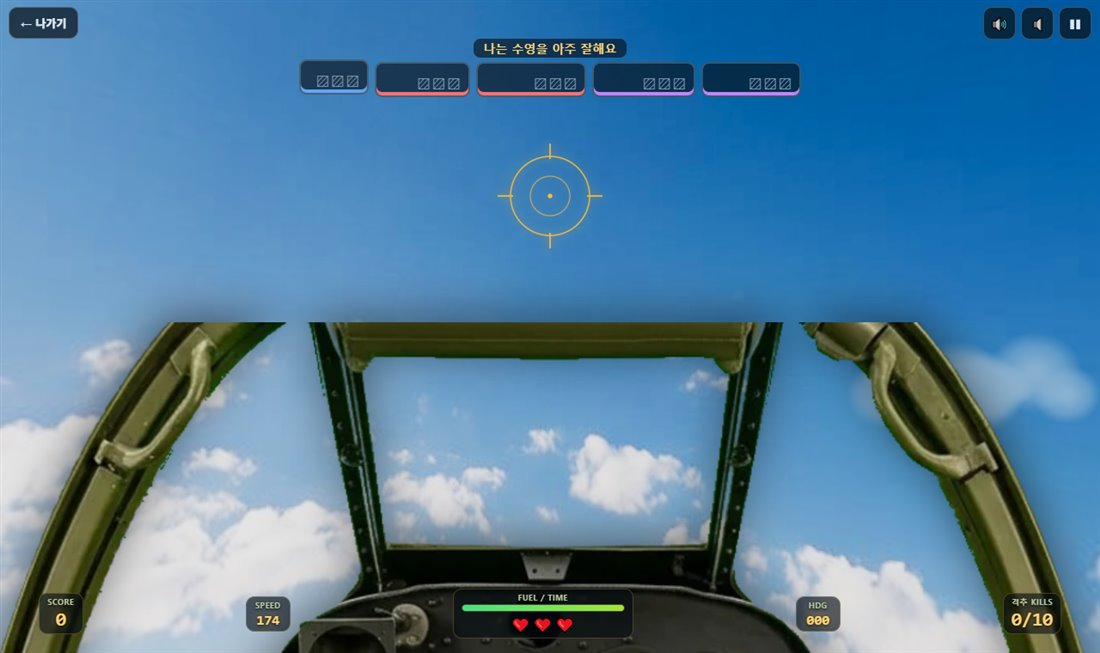
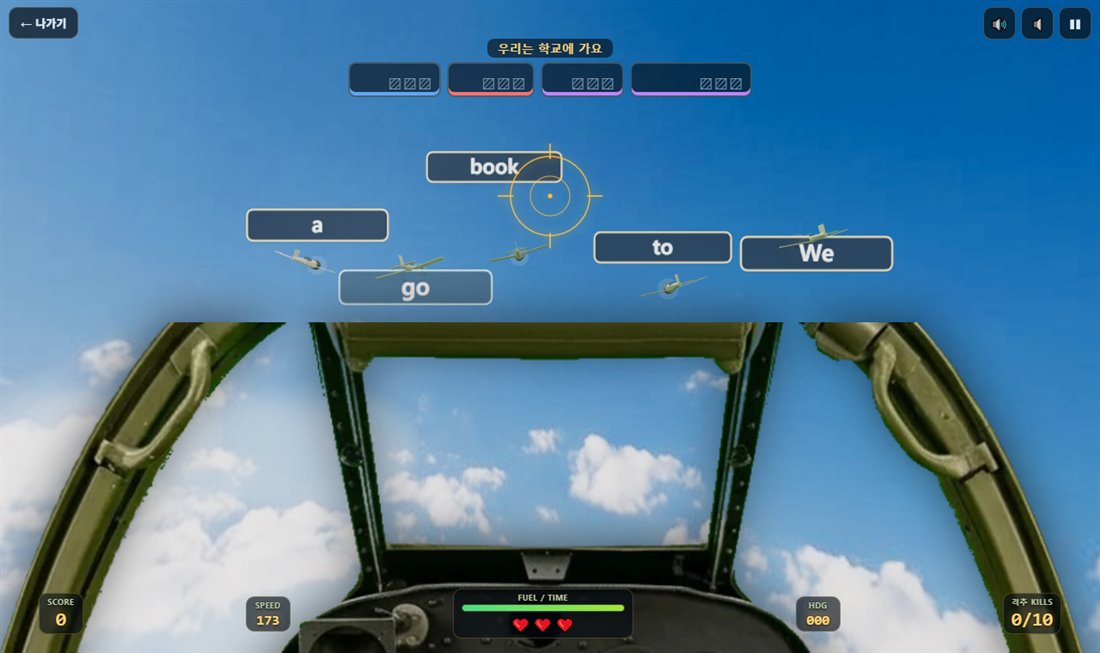
fix(p38-3d): 조준 벡터가 뒤집혀 적기가 등 뒤에 생기던 문제 + 허브 연동·모바일 조작·중국어 보강
■ 🔴🔴 조준 벡터 뒤집힘 — 이번 작업에서 가장 오래 잡은 버그
  aimVec() 을 `new Vector3(0,ndcY,0.5).unproject(camera)` 로 구현했는데,
  near=0.5 기준 NDC z=0.5 가 만드는 점은 카메라 앞 '겨우 2m' 다.
  플레이어는 프레임당 2.5m 를 전진하고 camera.matrixWorld 는 직전 렌더 시점 값이라
  그 2m 를 그대로 넘어서, 조준 벡터가 통째로 뒤(위)를 가리켰다.
  → 적기가 등 뒤 200m 에 배치되고 화면은 텅 빔. 행렬 비의존 해석적 계산으로 교체.
  · 함께: newGame 에서 player.updateMatrixWorld(true) — 데모 비행 잔재 제거
  · 함께: 적기 보정 상한을 max(sp*3.2, 플레이어속도*1.4) 로 — 낮으면 한 번 뒤처진 기체가 영영 못 따라옴

■ 허브 연동
  · 허브가 듣는 메시지 이름은 'mangoi-game-back' / 'mangoi-game-complete' 인데
    'mangoi-game-exit' 를 보내 아무 반응도 없었다. 이름이 틀리면 조용히 죽는다
  · 문장 완성·무전 교신 성공 시 hubComplete() → 허브 점수·오늘 학습(스트릭) 반영

■ 모바일 조작
  · 터치를 절대 위치 → '상대 드래그' 로 교체(닿는 순간 기체가 튀던 문제)
  · 조종 손가락을 pointerId 로 고정 — 발사 버튼을 누른 손가락이 조종에 끼어들지 않게

■ 중국어 보강
  · 문장 6 → 10개(문법 성분 포함), 혼동쌍 5 → 29개
    买/卖, 书/树 처럼 '같은 소리 다른 성조'를 나란히 띄워 성조를 듣게 만든다

■ 화면 비율 대응
  · 조종석 크기·조준점(aimY)·적기 배치 폭·라벨 크기를 가로 화각에 맞춰 자동 조정
    (세로 폰 / 16:9 / 21:9 모두 창 안에 들어옴)
  · 라벨 층 간격을 라벨 높이 비례로 — 고정값이면 이웃 라벨이 포개짐

검증: tsc 오류 0 · test-harness --fast 47 PASS 0 FAIL
      실브라우저 1280x760 / 1920x897 / 400x820 · 영어·중국어 · 격추 판정 정상

diff --git a/cloudflare-deploy/public/student-game-p38-3d.html b/cloudflare-deploy/public/student-game-p38-3d.html
@@ -47,13 +47,18 @@
   @media (max-aspect-ratio: 1/1){
     #cpPhoto img{--cpW:175%;--cpB:-40%}
   }
+  /* 아주 넓은 화면(21:9급) — 기본값 140% 를 그대로 두면 조종석이 화면을 삼켜 하늘이 안 보인다 */
+  @media (min-aspect-ratio: 19/10){
+    #cpPhoto img{--cpW:102%;--cpB:-62%}
+  }
   /* 유리 반사·비네팅 — 아주 옅게만(하늘을 가리지 않게) */
   #cpGlass{inset:0;background:
       radial-gradient(130% 100% at 50% 40%,rgba(255,255,255,0) 66%,rgba(10,20,10,.22) 100%),
       linear-gradient(112deg,rgba(255,255,255,.07) 0%,rgba(255,255,255,0) 22%,rgba(255,255,255,.04) 34%,rgba(255,255,255,0) 48%)}
 
   /* ───────── 조준기(N-3B 반사식 조준기 모사) ───────── */
-  /* top 값은 스크립트의 AIM_Y(0.30)와 반드시 같아야 한다 — 어긋나면 '조준기에 넣었는데 안 맞는' 버그가 된다 */
+  /* top 은 스크립트가 화면 비율에 맞춰 다시 넣는다(aimY). CSS 값은 첫 페인트용 기본치일 뿐이다.
+     ⚠ 조준기 위치와 사격 판정 방향이 어긋나면 '조준기에 넣었는데 안 맞는' 버그가 된다 — 항상 aimY 하나로 맞춘다 */
   #sight{position:absolute;left:50%;top:30%;transform:translate(-50%,-50%);z-index:6;pointer-events:none;
     filter:drop-shadow(0 0 6px rgba(255,190,60,.75))}
   #sight.lock circle.ring{stroke:#ff6a4d}
@@ -373,21 +378,34 @@ var SETS = {
     { w:['The','bird','flies','in','the','sky'], r:['S','S','V','M','M','M'], ko:'그 새는 하늘을 날아요' }
   ],
   zh: [
-    { w:['我','去','学校'],       r:['S','V','M'],     ko:'나는 학교에 가요' },
-    { w:['我','喜欢','苹果汁'],   r:['S','V','O'],     ko:'나는 사과 주스를 좋아해요' },
-    { w:['她','看','书'],         r:['S','V','O'],     ko:'그녀는 책을 봐요' },
-    { w:['他','今天','踢','足球'], r:['S','M','V','O'], ko:'그는 오늘 축구를 해요' },
-    { w:['我们','每天','学','英语'], r:['S','M','V','O'], ko:'우리는 매일 영어를 공부해요' },
-    { w:['鸟','在','天上','飞'],  r:['S','M','M','V'], ko:'새가 하늘에서 날아요' }
+    { w:['我','去','学校'],          r:['S','V','M'],     ko:'나는 학교에 가요' },
+    { w:['我','喜欢','苹果汁'],      r:['S','V','O'],     ko:'나는 사과 주스를 좋아해요' },
+    { w:['她','看','书'],            r:['S','V','O'],     ko:'그녀는 책을 봐요' },
+    { w:['他','今天','踢','足球'],    r:['S','M','V','O'], ko:'그는 오늘 축구를 해요' },
+    { w:['我们','每天','学','英语'],  r:['S','M','V','O'], ko:'우리는 매일 영어를 공부해요' },
+    { w:['鸟','在','天上','飞'],      r:['S','M','M','V'], ko:'새가 하늘에서 날아요' },
+    { w:['我','爸爸','开','车'],      r:['S','S','V','O'], ko:'우리 아빠는 차를 운전해요' },
+    { w:['猫','在','睡觉'],           r:['S','M','V'],     ko:'고양이가 자고 있어요' },
+    { w:['他们','中午','吃','午饭'],  r:['S','M','V','O'], ko:'그들은 점심때 밥을 먹어요' },
+    { w:['我','会','游泳'],           r:['S','V','V'],     ko:'나는 수영할 줄 알아요' }
   ]
 };
-/* 듣기 변별용 혼동쌍(minimal pairs) — 오답기 라벨로 섞어 '귀로 구분'을 훈련시킨다 */
+/* 듣기 변별용 혼동쌍(minimal pairs) — 오답기 라벨로 섞어 '귀로 구분'을 훈련시킨다.
+   중국어는 자모가 아니라 성조가 갈림길이다: 买(mǎi)/卖(mài), 书(shū)/树(shù) 처럼
+   '같은 소리 다른 성조'를 일부러 나란히 띄워 성조를 듣게 만든다. */
 var CONFUSE = {
   en:{ go:['goes','no','so'], we:['me','be','wee'], school:['schools','cool','pool'], I:['eye','my'],
        like:['likes','lake','bike'], book:['books','look','cook'], cat:['cap','hat','cut'],
        is:['it','his'], plays:['play','place'], eat:['it','eight'], sky:['ski','skies'],
        read:['red','reads'], reads:['read','red'], swim:['slim','swing'], study:['steady','studies'] },
-  zh:{ '我':['你','他'], '去':['去过','出'], '学校':['学生','学习'], '看':['开','慢'], '书':['树','输'] }
+  zh:{ '我':['你','他'], '我们':['你们','他们'], '她':['他','它'], '他们':['我们','你们'],
+       '去':['出','住'], '看':['开','干'], '书':['树','输'], '学校':['学生','学习'],
+       '喜欢':['希望','欢迎'], '苹果汁':['苹果','果汁'], '今天':['明天','昨天'],
+       '每天':['明天','白天'], '踢':['提','题'], '足球':['篮球','足够'],
+       '学':['雪','血'], '英语':['汉语','用语'], '鸟':['尿','了'], '天上':['天下','明天'],
+       '飞':['非','肥'], '爸爸':['妈妈','哥哥'], '开':['看','来'], '车':['扯','这'],
+       '猫':['毛','忙'], '睡觉':['水饺','税收'], '中午':['中文','钟'], '吃':['七','迟'],
+       '午饭':['五分','舞蹈'], '会':['回','灰'], '游泳':['有用','游戏'] }
 };
 function distractorsFor(word){
   var pool = (CONFUSE[MODE] && CONFUSE[MODE][word]) ? CONFUSE[MODE][word].slice() : [];
@@ -637,6 +655,8 @@ function resize(){
   if(!renderer) return;
   renderer.setSize(W,H,false);
   camera.aspect=W/H; camera.updateProjectionMatrix();
+  // 조준기 그림 위치를 사격 판정 방향(aimY)과 항상 같이 움직인다
+  try{ document.getElementById('sight').style.top = (aimY()*100)+'%'; }catch(_){}
 }
 function forwardVec(){ return new THREE.Vector3(0,0,-1).applyQuaternion(player.quaternion); }
 
@@ -644,16 +664,28 @@ function forwardVec(){ return new THREE.Vector3(0,0,-1).applyQuaternion(player.q
    실물 조종석 사진에서 계기판이 화면 아래 절반을 차지하므로, 하늘이 보이는 창 중앙
    (화면 위에서 AIM_Y 지점)을 조준점으로 쓴다. 사격 판정·예광탄·적기 정면유지가
    모두 이 벡터를 기준으로 돌아야 조준기와 실제 명중이 어긋나지 않는다. */
-var AIM_Y = 0.30;
+/* 조준점의 화면 세로 위치 — 조종석 사진이 화면을 차지하는 비율이 화면 형태마다 달라서 고정할 수 없다.
+   넓은 화면일수록 조종석이 위로 올라오므로 조준점도 함께 올린다. CSS #sight{top} 은 resize() 가 맞춘다. */
+function aimY(){
+  var a = (H>0) ? W/H : 1.6;
+  if(a >= 1.9) return 0.24;      // 21:9 급 — 조종석이 화면 위쪽까지 올라온다
+  if(a <  1.0) return 0.34;      // 세로 폰 — 조종석은 하단에만 있어 여유가 있다
+  return 0.30;
+}
 /* 화면 가로 반화각(rad) — 세로 화면(모바일)은 이게 확 좁아진다.
    적기 배치 폭과 라벨 크기를 여기에 맞추지 않으면 폰에서 라벨이 통째로 창밖으로 나간다. */
 function hHalfFov(){ return Math.atan(Math.tan(camera.fov*Math.PI/360) * camera.aspect); }
 function labelScaleK(){ return Math.max(0.5, Math.min(1, camera.aspect/1.5)); }
-var _aimTmp=new THREE.Vector3(), _aimCam=new THREE.Vector3();
+/* ⚠⚠ 여기를 unproject 로 구현하면 안 된다 — 이 게임에서 가장 오래 잡은 버그다.
+   `new Vector3(0, ndcY, 0.5).unproject(camera)` 가 만드는 점은 near=0.5 기준으로
+   카메라 앞 **겨우 2m** 지점이다. 그런데 플레이어는 프레임당 2.5m 를 전진하고,
+   camera.matrixWorld 는 직전 렌더 시점 값이라 그 2m 를 그대로 넘어선다.
+   결과: 조준 벡터가 통째로 뒤집혀(뒤·위쪽) 적기가 등 뒤에 배치됐다.
+   → 행렬에 의존하지 않는 해석적 계산으로 푼다. 화면 중앙 세로 AIM 지점의 시선 방향이다. */
 function aimVec(){
-  _aimTmp.set(0, 1 - 2*AIM_Y, 0.5).unproject(camera);
-  camera.getWorldPosition(_aimCam);
-  return _aimTmp.sub(_aimCam).normalize().clone();
+  var vf = Math.tan(camera.fov * Math.PI / 360);      // 세로 반화각의 tan
+  var ndcY = 1 - 2*aimY();
+  return new THREE.Vector3(0, ndcY*vf, -1).normalize().applyQuaternion(player.quaternion);
 }
 
 /* ════════════════════════════════════════════════════════════════════
@@ -820,8 +852,10 @@ function spawnEnemy(word, isCorrect, kind, words, slotIdx, slotTotal){
   /* ⚠ rightAx 축 기준 회전은 +가 '위'다(오른손 법칙). 처음에 부호를 반대로 놔서 적기가 전부 화면 위로 몰렸다.
      조준점(화면 30%) 기준 +0.12 rad(위, 화면 ≈20%) ~ −0.32 rad(아래, 화면 ≈55%) 범위에 흩뿌린다.
      인덱스 홀짝으로 위/아래를 번갈아 배치해 라벨이 같은 높이에 몰리지 않게 한다. */
-  // 위쪽 밴드는 +0.04 까지만 — 더 올리면 세로 화면에서 라벨이 상단 문장 바에 물린다
-  var band = ((slotIdx||0) % 2 === 0) ? (0.04 - Math.random()*0.16) : (-0.10 - Math.random()*0.22);
+  /* 밴드는 전부 조준선보다 '아래'다. 라벨이 기체 위에 뜨기 때문에, 기체를 조준선 높이에 두면
+     라벨이 화면 상단 문장 바(z-index 8)에 가려 아예 안 보인다 — 실제로 그렇게 사라졌다. */
+  // 아래로 너무 내리면 이번엔 조종석 캐노피 아치에 가린다. −0.06 ~ −0.27 이 위아래 모두 안전한 창이다.
+  var band = ((slotIdx||0) % 2 === 0) ? (-0.06 - Math.random()*0.10) : (-0.13 - Math.random()*0.08);
   e.slotPitch = band;
   var UPv=new THREE.Vector3(0,1,0), aim=aimVec();
   var rightAx=new THREE.Vector3().crossVectors(aim, UPv).normalize();
@@ -931,6 +965,11 @@ function newGame(){
     wrongWords:{}, prog:[]
   };
   player.position.set(0,0,0); player.quaternion.identity();
+  /* ⚠ 반드시 여기서 행렬을 갱신한다.
+     aimVec() 은 camera.matrixWorld 의 역행렬로 조준 방향을 푸는데, 시작 화면의 데모 비행이
+     player 를 수백 m 이동·회전시켜 놓은 상태다. 갱신 없이 적기를 생성하면 데모 시점의
+     엉뚱한 방향에 뿌려지고, 그 뒤로는 영영 따라오지 못한다(실제로 그렇게 터졌다). */
+  player.updateMatrixWorld(true);
   clearEnemies(); loadSentence(true);
 }
 function bank(){ return (LESSON_SETS && LESSON_SETS.length) ? LESSON_SETS : SETS[MODE]; }
@@ -1035,6 +1074,7 @@ function hitWrong(e){
 function sentenceComplete(){
   G.sentences++; G.score+=300; G.time=Math.min(G.timeMax, G.time+8);
   banner('✦ 문장 완성! +300 ✦', '#ffd479');
+  hubComplete(300);              // 허브 점수·오늘 학습(스트릭)에 문장 1개 완성 반영
   updateHUD();
   if(P().voiceLock){ startAceDuel(); }        // 에이스: 음성 조준 결투 먼저
   else { startSpeaking(); }                   // 그 외: 바로 무전 교신(말하기)
@@ -1114,7 +1154,7 @@ function spSpeakStep(){
 function spFinish(success){
   document.getElementById('ovSpeak').classList.add('hide');
   SP=null; G.speaking=false;
-  if(success){ G.score+=250; banner('🎖 무전 교신 성공! +250', '#4ade80'); }
+  if(success){ G.score+=250; banner('🎖 무전 교신 성공! +250', '#4ade80'); hubComplete(250); }
   updateHUD();
   if(G.sentences>=Math.ceil(GOAL/3) && G.kills>=GOAL){ endGame(true); return; }
   if(G.kills>=GOAL){ endGame(true); return; }
@@ -1164,6 +1204,7 @@ function matchSentence(said, target){
 var input={ mx:0, my:0, active:false, keys:{} };
 (function bindInput(){
   var cv=document.getElementById('wrap');
+  /* 마우스(PC) = 화면 중앙 대비 '절대 위치' 조종. 커서가 곧 조종간이라 직관적이다. */
   function setFromClient(cx,cy){
     input.mx = Math.max(-1, Math.min(1, (cx - W/2)/(W*0.42)));
     input.my = Math.max(-1, Math.min(1, (cy - H*0.44)/(H*0.36)));
@@ -1172,14 +1213,41 @@ var input={ mx:0, my:0, active:false, keys:{} };
   cv.addEventListener('mousedown', function(e){
     if(e.target.closest('button')) return; ac(); G&&(G.fireHeld=true); });
   window.addEventListener('mouseup', function(){ if(G)G.fireHeld=false; });
+
+  /* ⚠ 터치(모바일)는 절대 위치를 쓰면 안 된다.
+     손가락이 닿는 순간 그 좌표가 그대로 조종 입력이 되어 기체가 홱 튄다.
+     → 닿은 지점을 원점으로 잡는 '상대 드래그'. 화면 어디를 잡아도 그 자리가 중립이 된다.
+     ⚠ 그리고 손가락 하나만 추적한다(touches[0] 을 쓰면 발사 버튼을 누른 손가락이
+        조종 입력으로 끼어들어 조준이 흔들린다 — 실제로 그렇게 만들었다가 잡았다). */
+  var steerId=null, sx0=0, sy0=0, mx0=0, my0=0;
+  var DRAG = 0.28;                      // 화면 짧은 변의 28% 를 끌면 최대 입력
+  function touchById(list, id){
+    for(var i=0;i<list.length;i++) if(list[i].identifier===id) return list[i];
+    return null;
+  }
   cv.addEventListener('touchstart', function(e){
-    if(e.target.closest('button')) return;
-    var t=e.touches[0]; setFromClient(t.clientX,t.clientY); input.active=true; ac();
+    if(e.target.closest('button')) return;          // 발사·상단 버튼은 조종에서 제외
+    if(steerId!==null) return;                      // 이미 조종 중인 손가락이 있다
+    var t=e.changedTouches[0];
+    steerId=t.identifier; sx0=t.clientX; sy0=t.clientY; mx0=input.mx; my0=input.my;
+    input.active=true; ac();
   }, {passive:true});
   cv.addEventListener('touchmove', function(e){
-    var t=e.touches[0]; setFromClient(t.clientX,t.clientY);
+    if(steerId===null) return;
+    var t=touchById(e.touches, steerId); if(!t) return;
+    var span=Math.min(W,H)*DRAG;
+    input.mx = Math.max(-1, Math.min(1, mx0 + (t.clientX-sx0)/span));
+    input.my = Math.max(-1, Math.min(1, my0 + (t.clientY-sy0)/span));
   }, {passive:true});
-  cv.addEventListener('touchend', function(){ input.mx*=0.3; input.my*=0.3; }, {passive:true});
+  function endTouch(e){
+    if(steerId===null) return;
+    if(touchById(e.changedTouches, steerId)){
+      steerId=null;
+      input.mx*=0.25; input.my*=0.25;               // 손 떼면 수평으로 되돌아온다
+    }
+  }
+  cv.addEventListener('touchend', endTouch, {passive:true});
+  cv.addEventListener('touchcancel', endTouch, {passive:true});
 
   window.addEventListener('keydown', function(e){
     input.keys[e.code]=true;
@@ -1292,13 +1360,17 @@ function updateEnemies(dt){
        대신 적기마다 조준선 기준 고정 슬롯(좌우각·상하각)을 주고 그 지점을 목표로 삼는다.
        위빙은 슬롯 각도에 sin 흔들림으로 얹는다. 결과: 적기가 항상 창 안 예측 가능한 자리에 머문다. */
     var rightAx=new THREE.Vector3().crossVectors(pf, UP).normalize();
+    /* 위빙 진폭은 슬롯 간격(5기 기준 약 0.25rad)의 1/5 이하로 묶는다.
+       크게 주면 옆 슬롯 영역까지 흔들려 들어가 라벨끼리 포개진다. */
     var want=pf.clone()
-      .applyAxisAngle(UP,      e.slotYaw   + Math.sin(e.t*(e.ace?1.15:0.8)+e.ph)*0.13)
-      .applyAxisAngle(rightAx, e.slotPitch + Math.sin(e.t*0.55+e.ph)*0.06);
+      .applyAxisAngle(UP,      e.slotYaw   + Math.sin(e.t*(e.ace?1.15:0.8)+e.ph)*0.05)
+      .applyAxisAngle(rightAx, e.slotPitch + Math.sin(e.t*0.55+e.ph)*0.03);
     var target=pp.clone().addScaledVector(want, e.hold);
 
     var mv=target.sub(m.position);
-    var mvLen=mv.length(), cap=sp*3.2;
+    /* 보정 상한은 플레이어 속도보다 반드시 커야 한다.
+       작으면 한 번 뒤처진 적기가 영영 따라오지 못하고 하늘이 비어버린다. */
+    var mvLen=mv.length(), cap=Math.max(sp*3.2, G.speed*1.4);
     if(mvLen>cap) mv.multiplyScalar(cap/mvLen);      // 순간이동처럼 안 보이게 속도 상한
     // 고도 하한(바다) 보호
     if(m.position.y < -760) mv.y += 60;
@@ -1313,8 +1385,10 @@ function updateEnemies(dt){
     // 라벨 — 거리와 무관하게 화면상 크기 일정
     if(e.label){
       var dd=Math.max(30, m.position.distanceTo(camera.getWorldPosition(new THREE.Vector3())));
-      var s=dd*0.052*labelScaleK(); e.label.scale.set(s*3.1, s, 1);
-      e.label.position.y = 4.2 + (e.layer||0)*2.4 + s*0.35;
+      var s=dd*0.044*labelScaleK(); e.label.scale.set(s*3.1, s, 1);
+      /* 라벨 층 간격은 '라벨 높이(s)'에 비례해야 한다. 고정값(2.4)으로 두면 라벨 높이의 1/4밖에 안 벌어져
+         좌우로 가까운 두 기체의 라벨이 그대로 포개진다. 층 0/1/2 를 아래·가운데·위로 나눈다. */
+      e.label.position.y = 4.2 + s*0.35 + (((e.layer||0)-1) * s*1.15);
     }
     // 적 사격 — 정면 각도 안에 들어왔을 때만, 아주 가끔
     e.fireT-=dt;
@@ -1525,9 +1599,24 @@ function togglePause(){
     });
   });
 })();
+/* ⚠ 허브(student-games.html)가 듣는 메시지 타입은 정확히 두 개다 —
+   'mangoi-game-back'(메뉴로 복귀) / 'mangoi-game-complete'(점수·스트릭 반영).
+   처음에 'mangoi-game-exit' 를 보내 허브가 아무 반응도 안 했다. 이름이 틀리면 조용히 죽는다. */
+function hubMsg(type, payload){
+  try{
+    if(window.parent && window.parent!==window){
+      var m = { type:type }; if(payload) for(var k in payload) m[k]=payload[k];
+      window.parent.postMessage(m, '*');
+      return true;
+    }
+  }catch(_){}
+  return false;
+}
+/* 라운드 성과를 허브에 넘긴다 → 허브가 점수 누적 + 오늘 학습(스트릭) 처리 */
+function hubComplete(score){ hubMsg('mangoi-game-complete', { score: Math.max(0, Math.round(score||0)) }); }
 function goBack(){
-  stopSpeak(); engineStop();
-  try{ if(window.parent && window.parent!==window){ window.parent.postMessage({type:'mangoi-game-exit'},'*'); } }catch(_){}
+  stopSpeak(); engineStop(); flushProg();
+  if(hubMsg('mangoi-game-back')) return;                 // 허브 안이면 허브가 메뉴로 되돌린다
   if(history.length>1) history.back(); else location.href='/student-games.html';
 }
 function mountLessonNav(){
